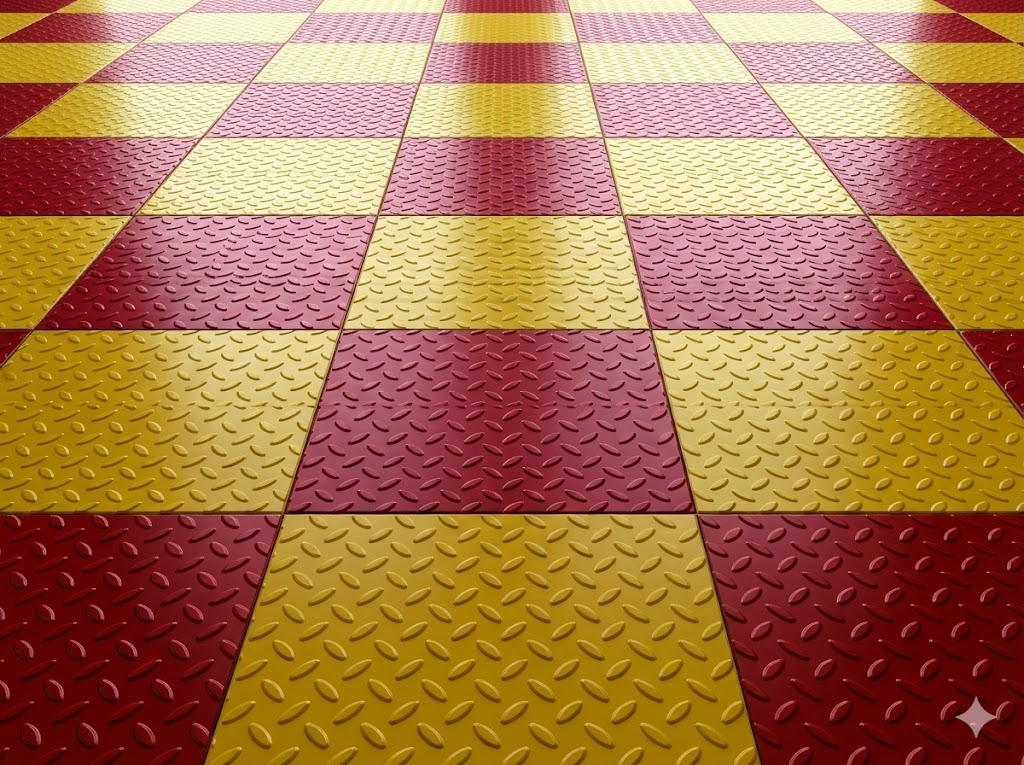
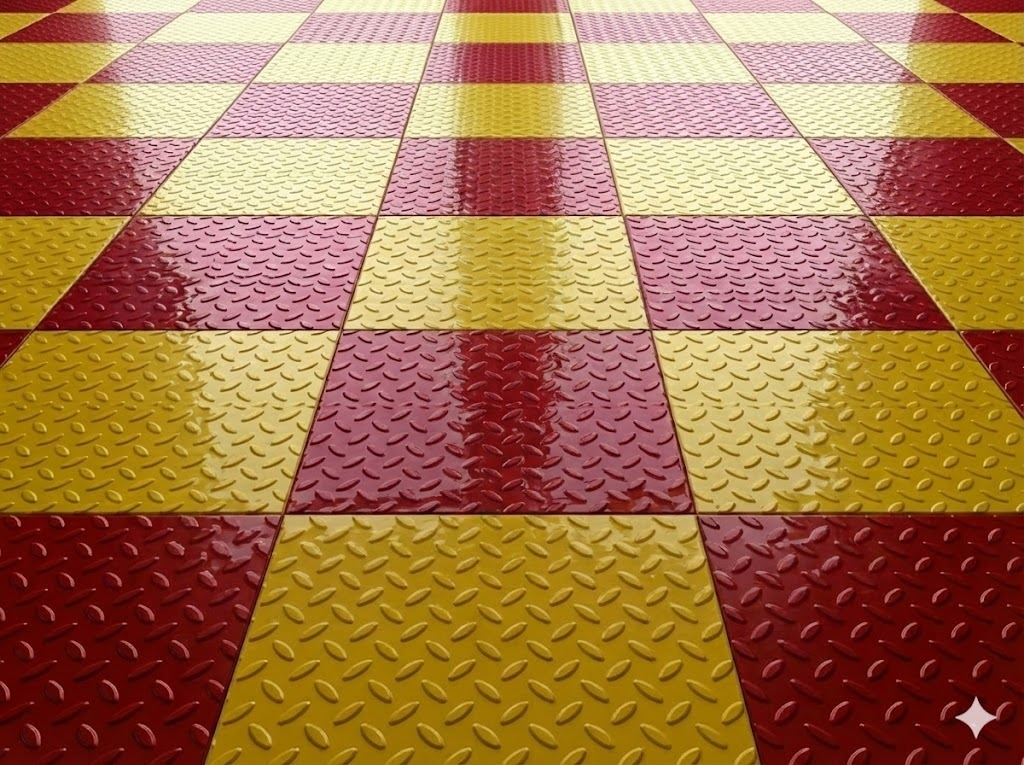
Updated product image and modified components

diff --git a/src/pages/ProductDetails.jsx b/src/pages/ProductDetails.jsx
@@ -1,3 +1,4 @@
+
 // import { useParams } from "react-router-dom"
 // import { useState } from "react"
 // import products from "../data/products"
@@ -37,7 +38,7 @@
 //             {product.name}
 //           </h1>
 
-//           <p className="text-gray-400 mb-4 leading-relaxed transition-all duration-300">
+//           <p className="text-gray-400 mb-4 leading-relaxed">
 //             {showMore
 //               ? product.description
 //               : product.description.slice(0, 120) + "..."}
@@ -50,8 +51,8 @@
 //             {showMore ? "View Less" : "View More"}
 //           </button>
 
-//           {/* SPECIFICATIONS (ONLY WHEN EXISTS + VIEW MORE) */}
-//           {showMore && product.specifications && (
+//           {/* 🔥 SPECIFICATIONS */}
+//           {showMore && product.specifications !== null && (
 //             <div className="glass p-6 mb-8">
 //               <h3 className="text-lg font-semibold mb-4">
 //                 Product Specifications
@@ -66,15 +67,19 @@
 //               </ul>
 
 //               <div className="flex gap-3 mt-4 items-center">
-//                 <span className="text-sm text-gray-400"><b>Colors:</b></span>
+//                 <span className="text-sm text-gray-400">
+//                   <b>Colors:</b>
+//                 </span>
 
 //                 {product.specifications.colors.map((c, i) => (
 //                   <span
 //                     key={i}
 //                     className={`w-6 h-6 rounded-full border border-white/20 ${
-//                       c === "red" ? "bg-red-500"
-//                       : c === "yellow" ? "bg-yellow-400"
-//                       : "bg-gray-400"
+//                       c === "red"
+//                         ? "bg-red-500"
+//                         : c === "yellow"
+//                         ? "bg-yellow-400"
+//                         : "bg-gray-400"
 //                     }`}
 //                   />
 //                 ))}
@@ -104,7 +109,6 @@
 
 
 
-
 import { useParams } from "react-router-dom"
 import { useState } from "react"
 import products from "../data/products"
@@ -113,8 +117,6 @@ import OrderInquiryModal from "../components/OrderInquiryModal"
 export default function ProductDetails() {
   const { id } = useParams()
   const product = products.find(p => p.id === Number(id))
-
-  const [showMore, setShowMore] = useState(false)
   const [openForm, setOpenForm] = useState(false)
 
   if (!product) {
@@ -140,25 +142,17 @@ export default function ProductDetails() {
 
         {/* DETAILS */}
         <div>
-          <h1 className="text-3xl font-bold mb-4">
+          <h1 className="text-3xl font-bold mb-6">
             {product.name}
           </h1>
 
-          <p className="text-gray-400 mb-4 leading-relaxed">
-            {showMore
-              ? product.description
-              : product.description.slice(0, 120) + "..."}
+          {/* FULL DESCRIPTION ALWAYS */}
+          <p className="text-gray-400 mb-8 leading-relaxed">
+            {product.description}
           </p>
 
-          <button
-            onClick={() => setShowMore(!showMore)}
-            className="text-[#3cff78] text-sm mb-6"
-          >
-            {showMore ? "View Less" : "View More"}
-          </button>
-
-          {/* 🔥 SPECIFICATIONS */}
-          {showMore && product.specifications !== null && (
+          {/* SPECIFICATIONS (ONLY IF EXISTS) */}
+          {product.specifications && (
             <div className="glass p-6 mb-8">
               <h3 className="text-lg font-semibold mb-4">
                 Product Specifications
@@ -171,25 +165,6 @@ export default function ProductDetails() {
                 <li><b>100 Sqft:</b> {product.specifications.piecesPer100Sqft}</li>
                 <li><b>Weight:</b> {product.specifications.weight}</li>
               </ul>
-
-              <div className="flex gap-3 mt-4 items-center">
-                <span className="text-sm text-gray-400">
-                  <b>Colors:</b>
-                </span>
-
-                {product.specifications.colors.map((c, i) => (
-                  <span
-                    key={i}
-                    className={`w-6 h-6 rounded-full border border-white/20 ${
-                      c === "red"
-                        ? "bg-red-500"
-                        : c === "yellow"
-                        ? "bg-yellow-400"
-                        : "bg-gray-400"
-                    }`}
-                  />
-                ))}
-              </div>
             </div>
           )}
 

diff --git a/src/components/AboutSection.jsx b/src/components/AboutSection.jsx
@@ -5,14 +5,27 @@ export default function AboutSection() {
       {/* ABOUT TEXT */}
       <div className="max-w-3xl">
         <p className="text-gray-400 leading-relaxed mb-6">
-          We are a trusted industrial manufacturing company with decades of
-          experience delivering durable, high-performance products for
-          demanding industries.
+          At SR CEMENT PRODUCTS, we believe that every strong
+          structure begins with a strong foundation. Established with
+          a vision to deliver durable, reliable, and innovative cement
+          based solutions, we have become a trusted name in the
+          industry.
         </p>
 
         <p className="text-gray-400 leading-relaxed">
-          Our focus is on precision engineering, consistent quality, and
-          long-term reliability that our clients can depend on.
+          With years of experience and modern manufacturing
+          practices, we specialize in producing a wide range of high
+          quality products such as paver blocks, fencing poles, cover
+          blocks, precast boundary walls, fly ash bricks, and many
+          more. Our products are designed to meet the highest
+          standards of strength, precision, and sustainability.
+        </p>
+
+        <p className="text-gray-400 leading-relaxed">
+          At SR CEMENT PRODUCTS, we don’t just manufacture
+          cement items—we create solutions that add value to every
+          project. Whether it’s residential, commercial, or industrial,
+          we are here to help you “Make a Concrete Decision.”
         </p>
       </div>
 

diff --git a/src/components/ContactInfo.jsx b/src/components/ContactInfo.jsx
@@ -9,23 +9,23 @@ export default function ContactInfo() {
 
       <div className="glass p-5">
         <p className="text-[#3cff78] mb-1">Phone</p>
-        <p className="text-gray-300">+91 98234 56789</p>
+        <p className="text-gray-300">+91 9407271513</p>
       </div>
 
       <div className="glass p-5">
         <p className="text-[#3cff78] mb-1">Email</p>
-        <p className="text-gray-300">info@industrial.com</p>
+        <p className="text-gray-300">srcementbgt@gmail.com</p>
       </div>
 
       <div className="glass p-5">
         <p className="text-[#3cff78] mb-1">WhatsApp</p>
-        <p className="text-gray-300">+91 98234 56789</p>
+        <p className="text-gray-300">+91 9407271513</p>
       </div>
 
       <div className="glass p-5">
         <p className="text-[#3cff78] mb-1">Address</p>
         <p className="text-gray-300">
-          Industrial Area, Balaghat, Madhya Pradesh
+          Suhana Nagar Chakarwahi, Malajkhand
         </p>
       </div>
 
@@ -33,7 +33,7 @@ export default function ContactInfo() {
       <div className="glass p-2">
         <iframe
           title="map"
-          src="https://www.google.com/maps?q=Balaghat%20Madhya%20Pradesh&output=embed"
+          src="https://www.google.com/maps?q=Malajkhand%20Madhya%20Pradesh&output=embed"
           className="w-full h-56 rounded-md border-0"
           loading="lazy"
         ></iframe>

diff --git a/src/data/products.js b/src/data/products.js
@@ -36,7 +36,7 @@ const products = [
     id: 3,
     slug: "chequered-tiles",
     name: "Chequered Tiles",
-    image: "/products/chequered-tiles.png",
+    image: "/products/chequered-tiles.jpg",
     shortDescription:
       "Durable chequered tiles designed for industrial and outdoor flooring.",
     description:
